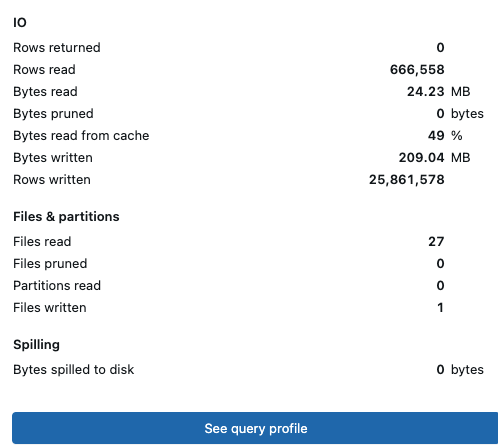
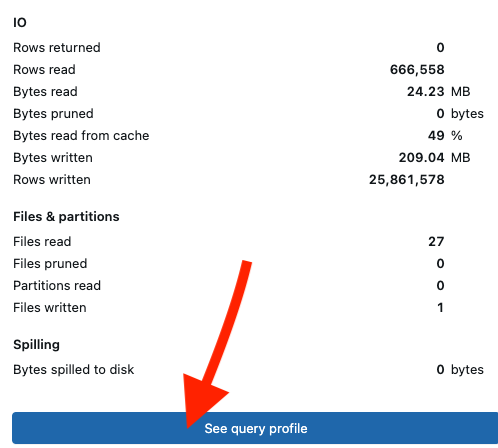
updating lab 3

Changed region(s): [[0.3614, 0.5625, 0.512, 0.9688]]

diff --git a/02_LAB_Notebook/README.md b/02_LAB_Notebook/README.md
@@ -19,7 +19,7 @@ Nesse exercício vamos importar um Notebook (em linguagem Python) para copiar as
 * Clique com o botão direito do mouse na área destacada.</br>
 * Selecione a opção IMPORTAR.</br> </br>
 
-<img src="https://github.com/Gabriel-Rangel/lab_sql/blob/main/images/v2_lab02_1.png">
+<img src="https://github.com/Gabriel-Rangel/lab_sql/blob/main/images/v2_lab02_1.png?raw=true">
 </br></br>
 Na janela de importação, clique na opção "**URL**".
 
@@ -36,15 +36,15 @@ Conforme a figura abaixo:
 * Não esqueça de tirar o caracter "#" (jogo da velha) da frente da linha.
 * Verifique se o Cluster (máquina virtual que executará o processo) está Atachada (barra superior ao lado do botão "Run All"). 
 </br></br>
-<img src="https://github.com/Gabriel-Rangel/lab_sql/blob/main/images/v2_lab02_3.png">
+<img src="https://github.com/Gabriel-Rangel/lab_sql/blob/main/images/v2_lab02_3.png?raw=true">
 </br></br>
 Execute os comandos do Notebook, clicando no botão "RUN ALL".
 </br></br>
-<img src="https://github.com/Gabriel-Rangel/lab_sql/blob/main/images/v2_lab02_4.png">
+<img src="https://github.com/Gabriel-Rangel/lab_sql/blob/main/images/v2_lab02_4.png?raw=true">
 </br></br>
 Visualize os resultados no Catalog Explorer:
 
 </br></br>
-<img src="https://github.com/Gabriel-Rangel/lab_sql/blob/main/images/v2_lab02_5.png">
+<img src="https://github.com/Gabriel-Rangel/lab_sql/blob/main/images/v2_lab02_5.png?raw=true">
 
 

diff --git a/01_LAB_Query_Editor/README.md b/01_LAB_Query_Editor/README.md
@@ -12,7 +12,7 @@ O objetivo desse laboratório é conhecer as funcionalidades de consulta (_Query
 </br>
 Os exercícios deverão ser executados na opção do Menu lateral "**SQL Editor**".
 
-<img src="https://github.com/Gabriel-Rangel/lab_sql/blob/main/images/v2_lab01_1.png">
+<img src="https://github.com/Gabriel-Rangel/lab_sql/blob/main/images/v2_lab01_1.png?raw=true">
 
 
 </br></br></br>
